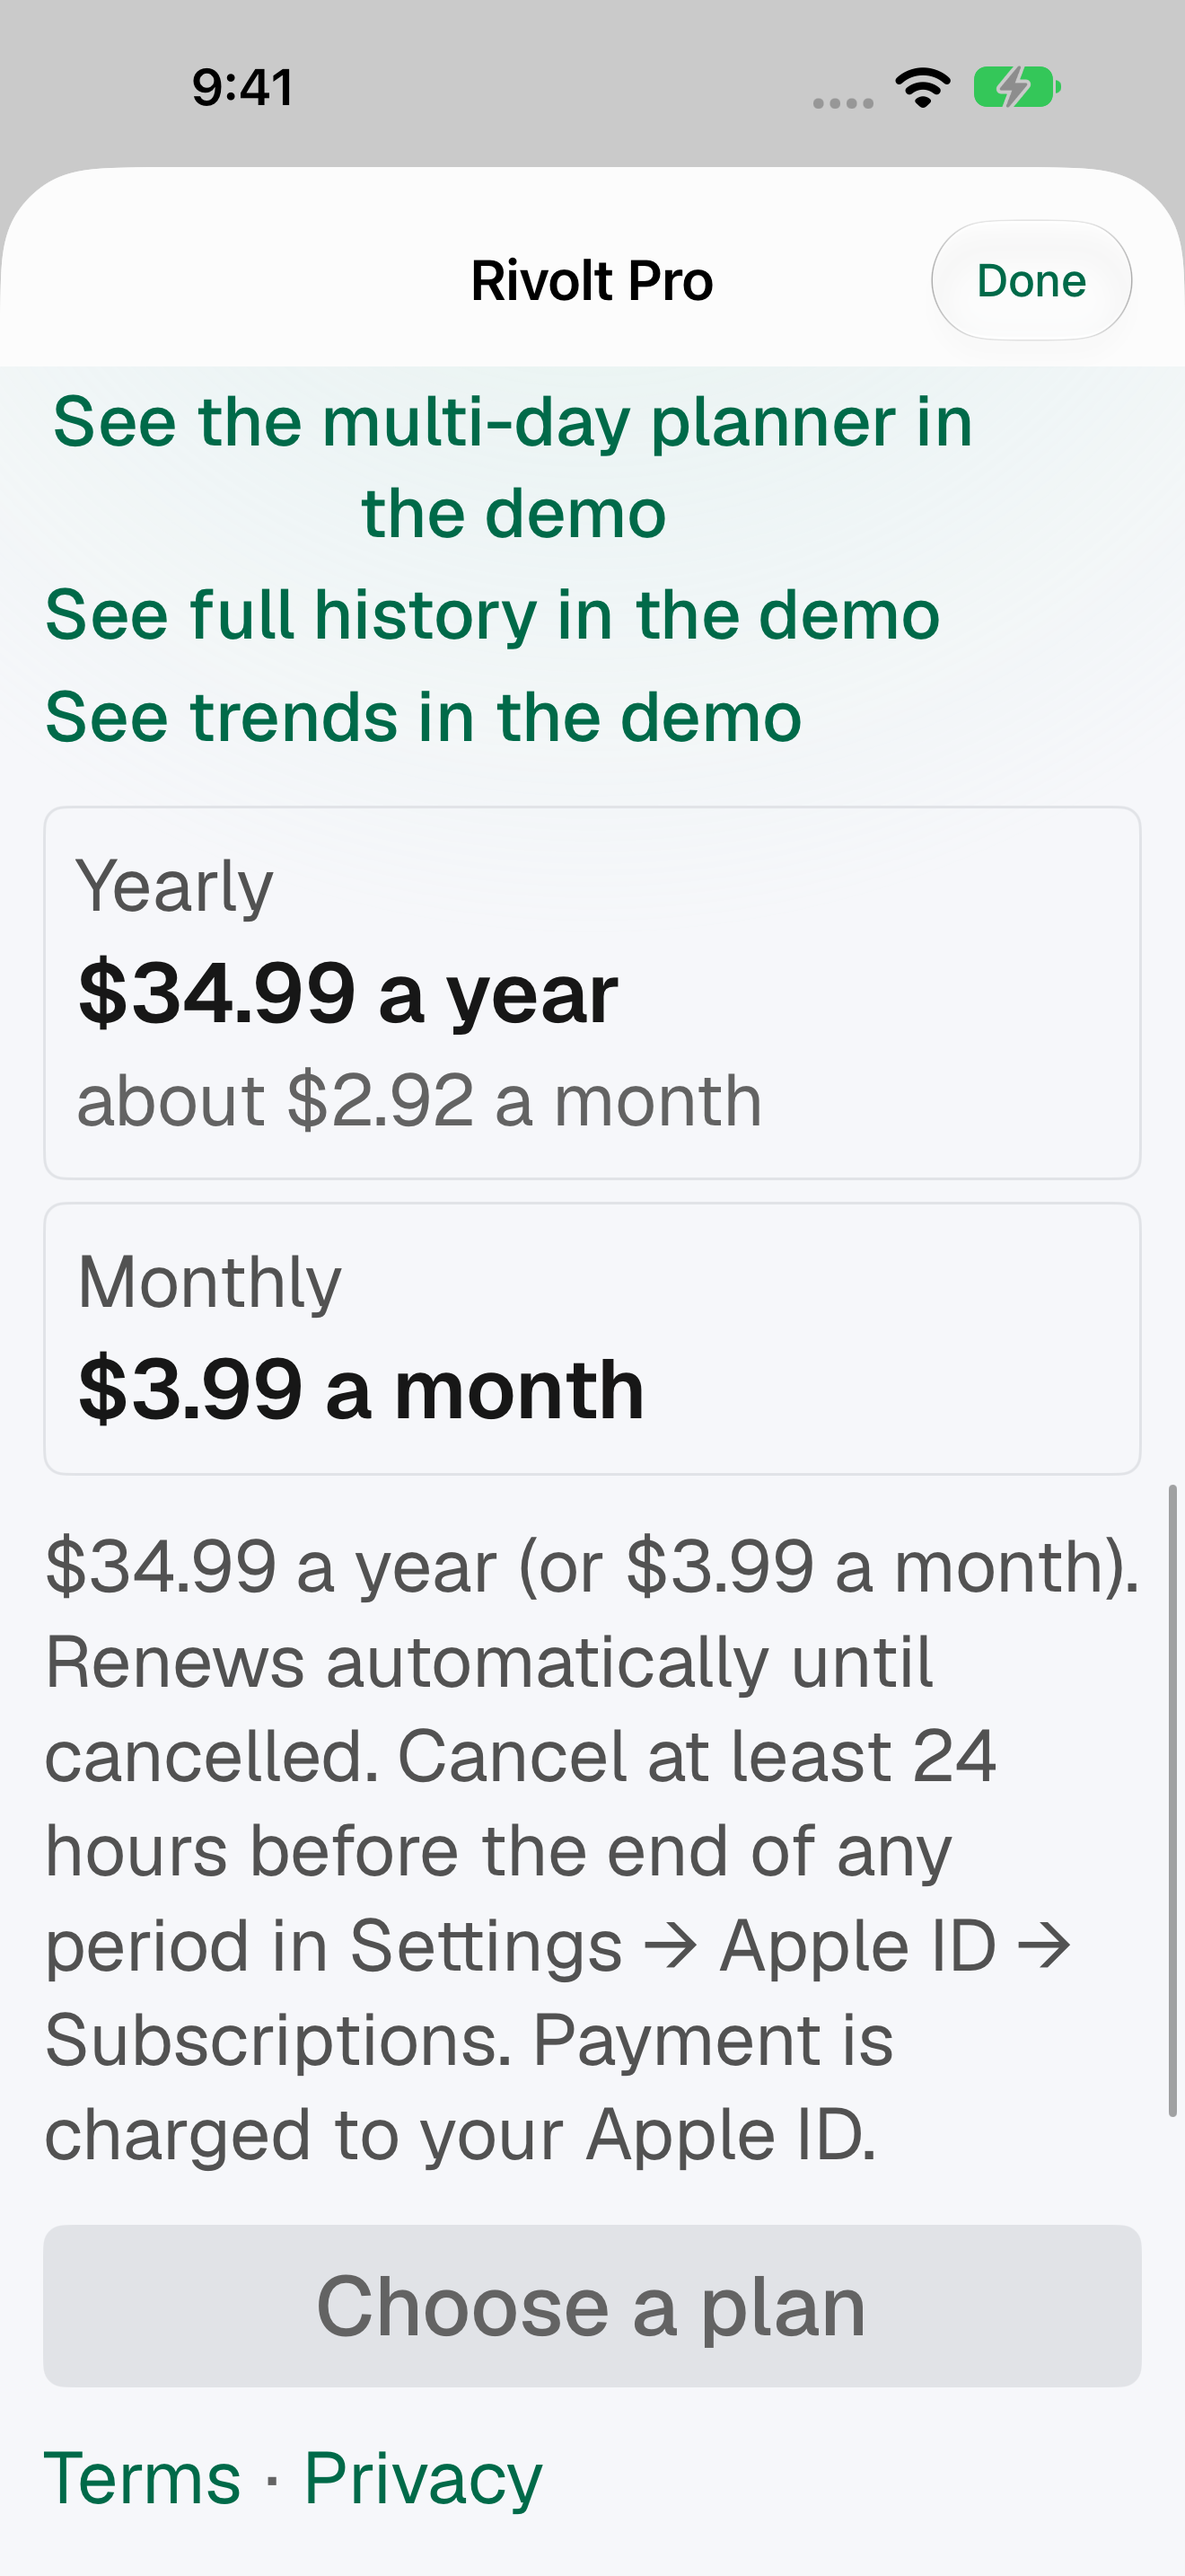
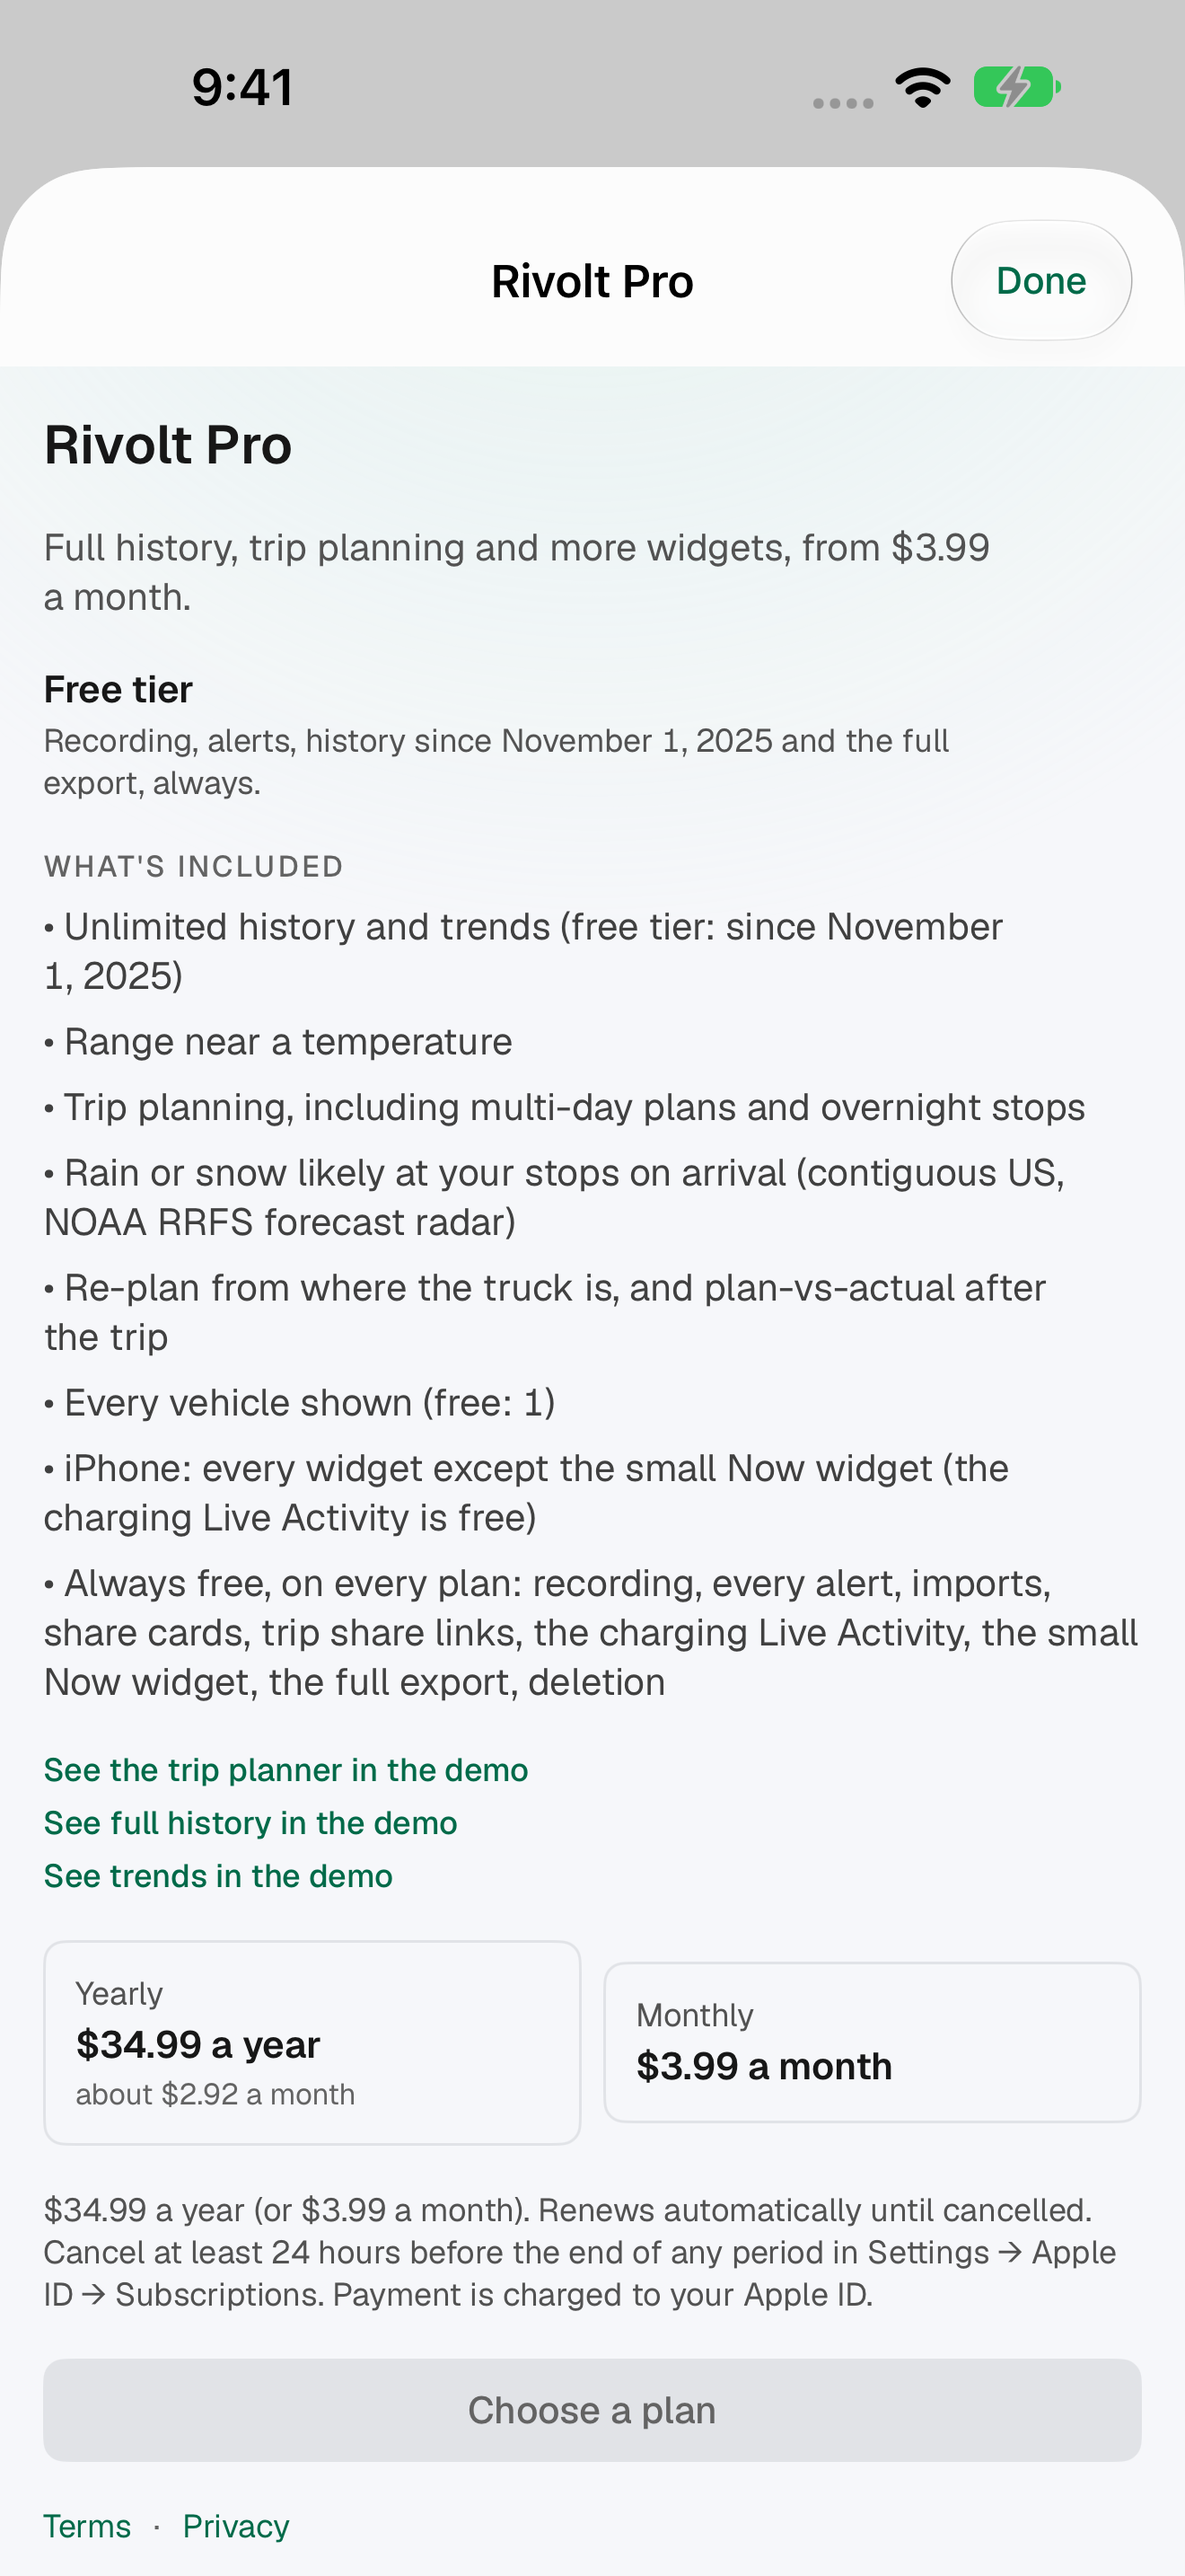
Review shot at default text size; demo link says trip planner

diff --git a/ios/RivoltUITests/ReviewShotUITests.swift b/ios/RivoltUITests/ReviewShotUITests.swift
@@ -12,7 +12,7 @@ final class ReviewShotUITests: XCTestCase {
                                                           here.deletingLastPathComponent().appendingPathComponent("RivoltTests/Fixtures").path].joined(separator: ":")
         app.launchEnvironment["RIVOLT_UITEST_NO_TRUCK"] = "none"
         app.launchEnvironment["RIVOLT_UITEST_BILLING"] = "1"
-        app.launchArguments += ["-rivolt.appearance", "light"]
+        app.launchArguments += ["-rivolt.appearance", "light", "-UIPreferredContentSizeCategoryName", "UICTContentSizeCategoryL"]
         app.launch()
         let pro = app.buttons["Rivolt Pro"].firstMatch
         XCTAssertTrue(pro.waitForExistence(timeout: 30), "the Pro entry is on the no-vehicle screen")

diff --git a/ios/Rivolt/Views/ProPaywall.swift b/ios/Rivolt/Views/ProPaywall.swift
@@ -213,7 +213,7 @@ enum ProCopy {
 enum DemoLinks {
     struct Item: Equatable { let label: String; let url: URL }
 
-    static let planner = Item(label: "See the multi-day planner in the demo", url: URL(string: "https://demo.rivolt.dev/demo/trips/plan")!)
+    static let planner = Item(label: "See the trip planner in the demo", url: URL(string: "https://demo.rivolt.dev/demo/trips/plan")!)
     static let history = Item(label: "See full history in the demo", url: URL(string: "https://demo.rivolt.dev/demo/activity")!)
     static let trends = Item(label: "See trends in the demo", url: URL(string: "https://demo.rivolt.dev/demo/truck")!)
 
